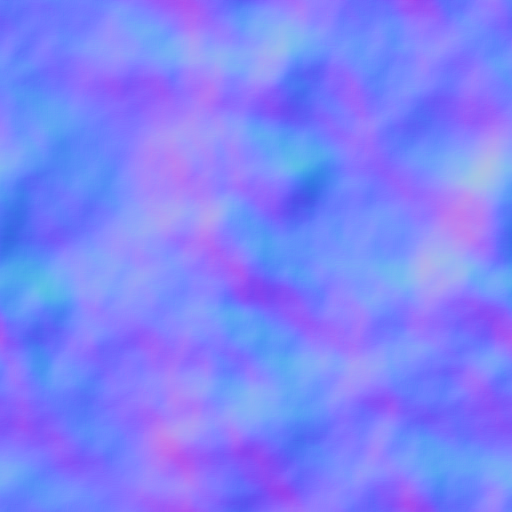
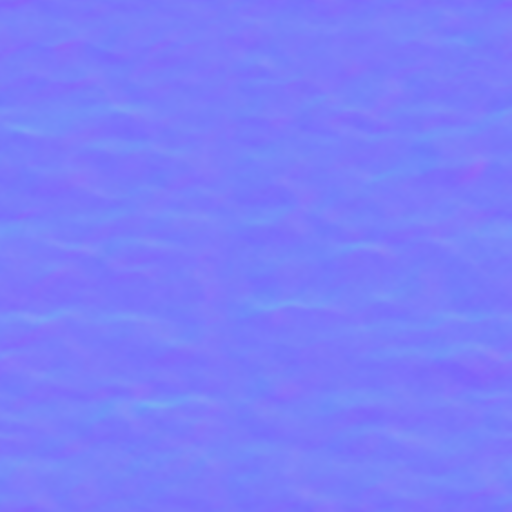
feat: add environment prop to ModularTrailerModel and enhance HDR handling in TrailerViewer

diff --git a/src/components/TrailerViewer.jsx b/src/components/TrailerViewer.jsx
@@ -251,6 +251,7 @@ const TrailerViewer = forwardRef(function TrailerViewer({ onModelReady, fullscre
   const [downloading, setDownloading] = useState(false)
   const [clickedName, setClickedName] = useState(null)
   const [modelReport, setModelReport] = useState(null)
+  const [environment, setEnvironment] = useState('/neutral.hdr')
   const nameTimerRef = useRef(null)
   const modelGroupRef = useRef()
   const orbitControlsRef = useRef()
@@ -372,6 +373,18 @@ const TrailerViewer = forwardRef(function TrailerViewer({ onModelReady, fullscre
     if (viewer?.canActivateAR) viewer.activateAR()
   }
 
+  const isHdr = environment.endsWith('.hdr')
+  const stageEnvironment = isHdr
+    ? {
+        files: environment,
+        background: false,
+        // ground: { radius: 100, height: 5, scale: 100 },
+      }
+    : {
+        preset: environment,
+        background: false,
+      }
+
   return (
     <div className="relative flex-1 flex flex-col min-h-0">
       <div className="relative flex-1 min-h-0">
@@ -387,19 +400,27 @@ const TrailerViewer = forwardRef(function TrailerViewer({ onModelReady, fullscre
               shadows
               camera={{ fov: 50 }}
               style={{ width: '100%', height: '100%' }}
-              gl={{ antialias: true }}
+              gl={{
+                antialias: true,
+                // outputColorSpace: THREE.SRGBColorSpace,
+                // toneMapping: THREE.ACESFilmicToneMapping,
+                // toneMappingExposure: 1.0,
+              }}
             >
               <Stage
-                intensity={0.5}
-                environment={{ files: '/neutral.hdr' }}
-                shadows={{ type: 'contact', opacity: 0.2, blur: 3 }}
+                intensity={0.6}
+                environment={stageEnvironment}
+                shadows={isHdr ? false : { type: 'contact', opacity: 0.2, blur: 3 }}
+                center={{ disable: isHdr }}
                 adjustCamera={false}
               >
+                {/* <ambientLight intensity={isHdr ? 0.4 : 0.1} /> */}
                 <group ref={modelGroupRef}>
                   <ModularTrailerModel
                     widthFt={widthFt}
                     lengthFt={lengthFt}
                     heightFt={heightFt}
+                    environment={environment}
                   />
                 </group>
                 {onModelReady && (
@@ -441,7 +462,11 @@ const TrailerViewer = forwardRef(function TrailerViewer({ onModelReady, fullscre
           >
             <img src="/eyes.png" alt="" />
           </button>
-          <button aria-label="Scenic View" className="w-11 h-9 flex items-center justify-center bg-[#2a2a2a] border border-[#3a3a3a] rounded-lg hover:border-[#DA634B] transition-colors">
+          <button 
+            aria-label="Scenic View" 
+            onClick={() => setEnvironment(prev => prev === 'city' ? '/neutral.hdr' : '/neutral.hdr')}
+            className={`w-11 h-9 flex items-center justify-center bg-[#2a2a2a] rounded-lg transition-colors border ${isHdr ? 'border-[#DA634B]' : 'border-[#3a3a3a] hover:border-[#DA634B]'}`}
+          >
             <img src="/view.png" alt="" />
           </button>
           <button

diff --git a/src/components/ModularTrailerModel.jsx b/src/components/ModularTrailerModel.jsx
@@ -166,7 +166,7 @@ const TONGUE_MESH_MAP = {
 }
 
 
-export default function ModularTrailerModel({ widthFt, lengthFt, heightFt }) {
+export default function ModularTrailerModel({ widthFt, lengthFt, heightFt, environment }) {
     const config = useConfigurator()
 
     const hasCabinet = config.cabinets?.includes('vnosebase') || config.cabinets?.includes('flatfrontbase')
@@ -225,6 +225,22 @@ export default function ModularTrailerModel({ widthFt, lengthFt, heightFt }) {
         })
     }, [])
 
+    // Hide ground/shadow catcher plane when HDR is active to prevent z-fighting
+    useEffect(() => {
+        const allScenes = [base, baseMeshes, addons]
+        const isHdr = environment?.endsWith('.hdr')
+        allScenes.forEach((scene) => {
+            scene.traverse((child) => {
+                if (child.isMesh) {
+                    const name = child.name.toLowerCase()
+                    if (name.includes('plane') || name.includes('ground') || name.includes('shadowcatcher')) {
+                        child.visible = !isHdr
+                    }
+                }
+            })
+        })
+    }, [environment, base, baseMeshes, addons])
+
     // ── Apply shell color texture + Simple_Noise bump to every MAT_Shell slot ─
     // Checks mesh.userData.useTriplanar per mesh:
     //   true  → patchTriplanarMaterial (world-space, no UV stretch on deformed geometry)
@@ -237,6 +253,7 @@ export default function ModularTrailerModel({ widthFt, lengthFt, heightFt }) {
         texture.colorSpace = THREE.SRGBColorSpace
         texture.wrapS = THREE.RepeatWrapping
         texture.wrapT = THREE.RepeatWrapping
+        texture.needsUpdate = true
 
         // Configure Simple_Noise as a bump map (non-color, repeating)
         simpleNoise.colorSpace = THREE.NoColorSpace
@@ -267,8 +284,8 @@ export default function ModularTrailerModel({ widthFt, lengthFt, heightFt }) {
                         const base = mat.clone()
                         base.map       = texture
                         base.bumpMap   = simpleNoise
-                        base.bumpScale = 0.005
-                        base.roughness = 0.1
+                        base.bumpScale = 0.01
+                        base.roughness = 0.1 // restored glossiness
                         const patched = patchTriplanarMaterial(base, {
                             x: new THREE.Vector2(0.25, 0.75),
                             y: new THREE.Vector2(0.25, 0.25),
@@ -280,9 +297,9 @@ export default function ModularTrailerModel({ widthFt, lengthFt, heightFt }) {
                         const next = mat.clone()
                         next.map       = texture
                         next.bumpMap   = simpleNoise
-                        next.bumpScale = 0.005
-                        next.roughness = 0.1
-                        next.needsUpdate = true
+                        next.bumpScale = 0.01
+                        next.roughness = 0.1 // restored glossiness
+                        // next.needsUpdate = true
                         if (isArray) child.material[i] = next
                         else child.material = next
                     }
